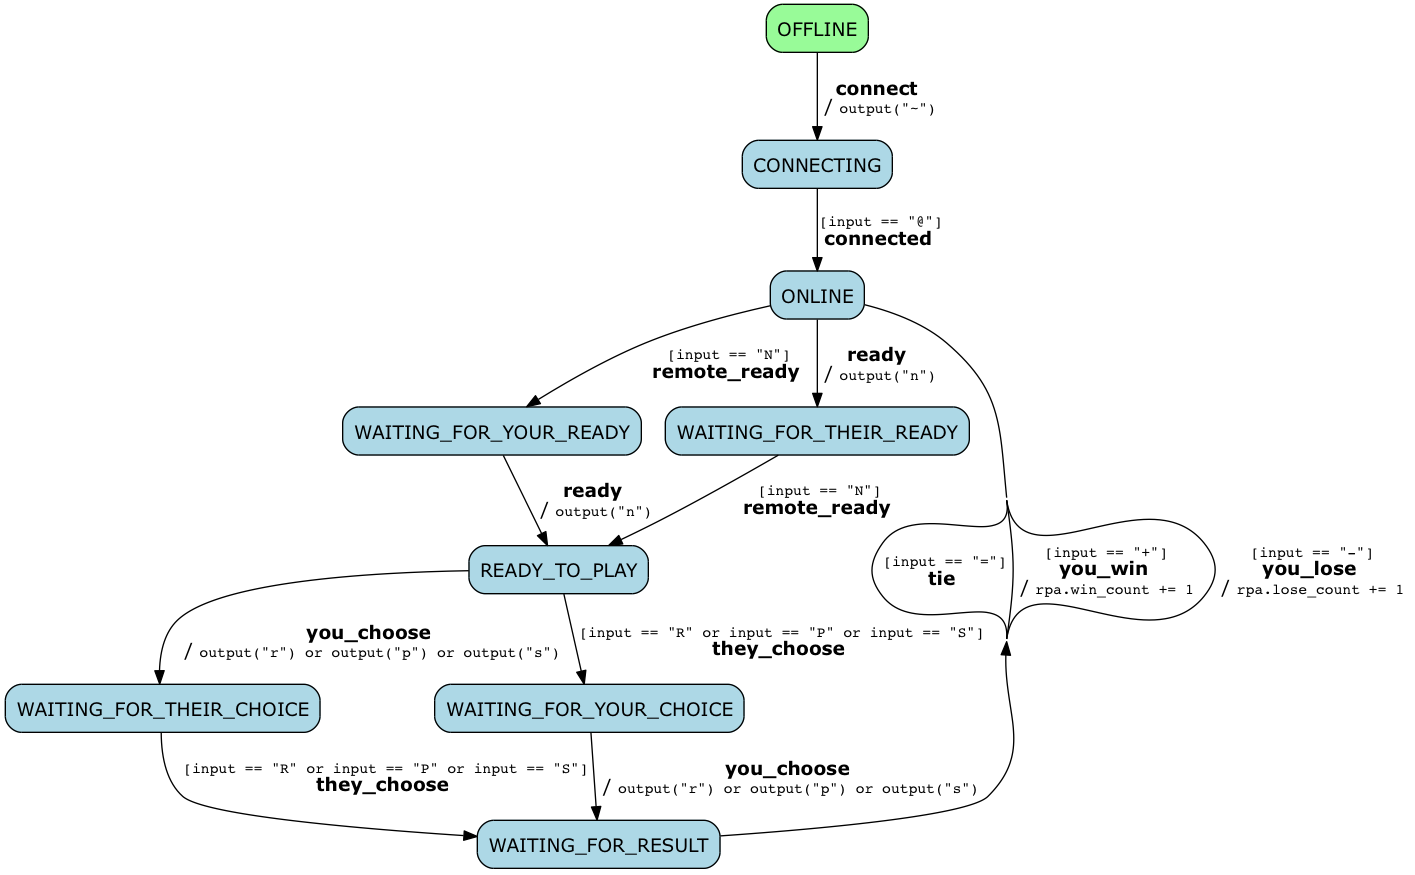
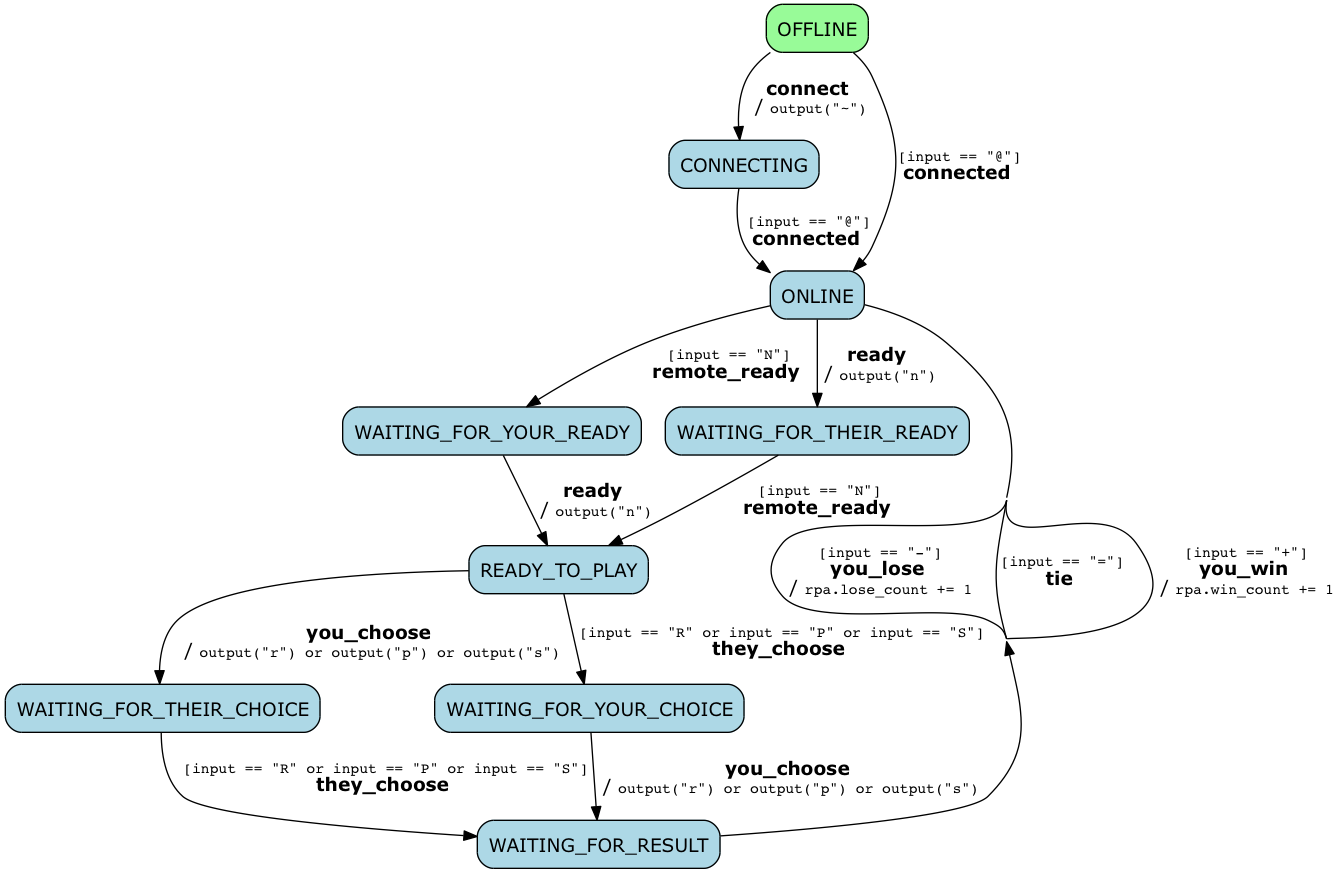
allow transition from OFFLINE directly to ONLINE

diff --git a/rock_paper_awesome_fsm.rb b/rock_paper_awesome_fsm.rb
@@ -38,6 +38,8 @@ class RockPaperAwesome
     state :OFFLINE do
       on :connect, :to => :CONNECTING, 
         :action => proc{|rpa| output("~") }
+      on :connected, :to => :ONLINE,
+        :if => proc{|input| input == "@"}
     end
 
     state :CONNECTING do

diff --git a/arduino/rock_paper_awesome/RPA.cpp b/arduino/rock_paper_awesome/RPA.cpp
@@ -21,6 +21,7 @@ void RPA::connect() {
 
 void RPA::connected() {
     switch (state) {
+        case RPA::States::OFFLINE:
         case RPA::States::CONNECTING:
             change_state_to(RPA::States::ONLINE);
             if (*on_connected) on_connected();
